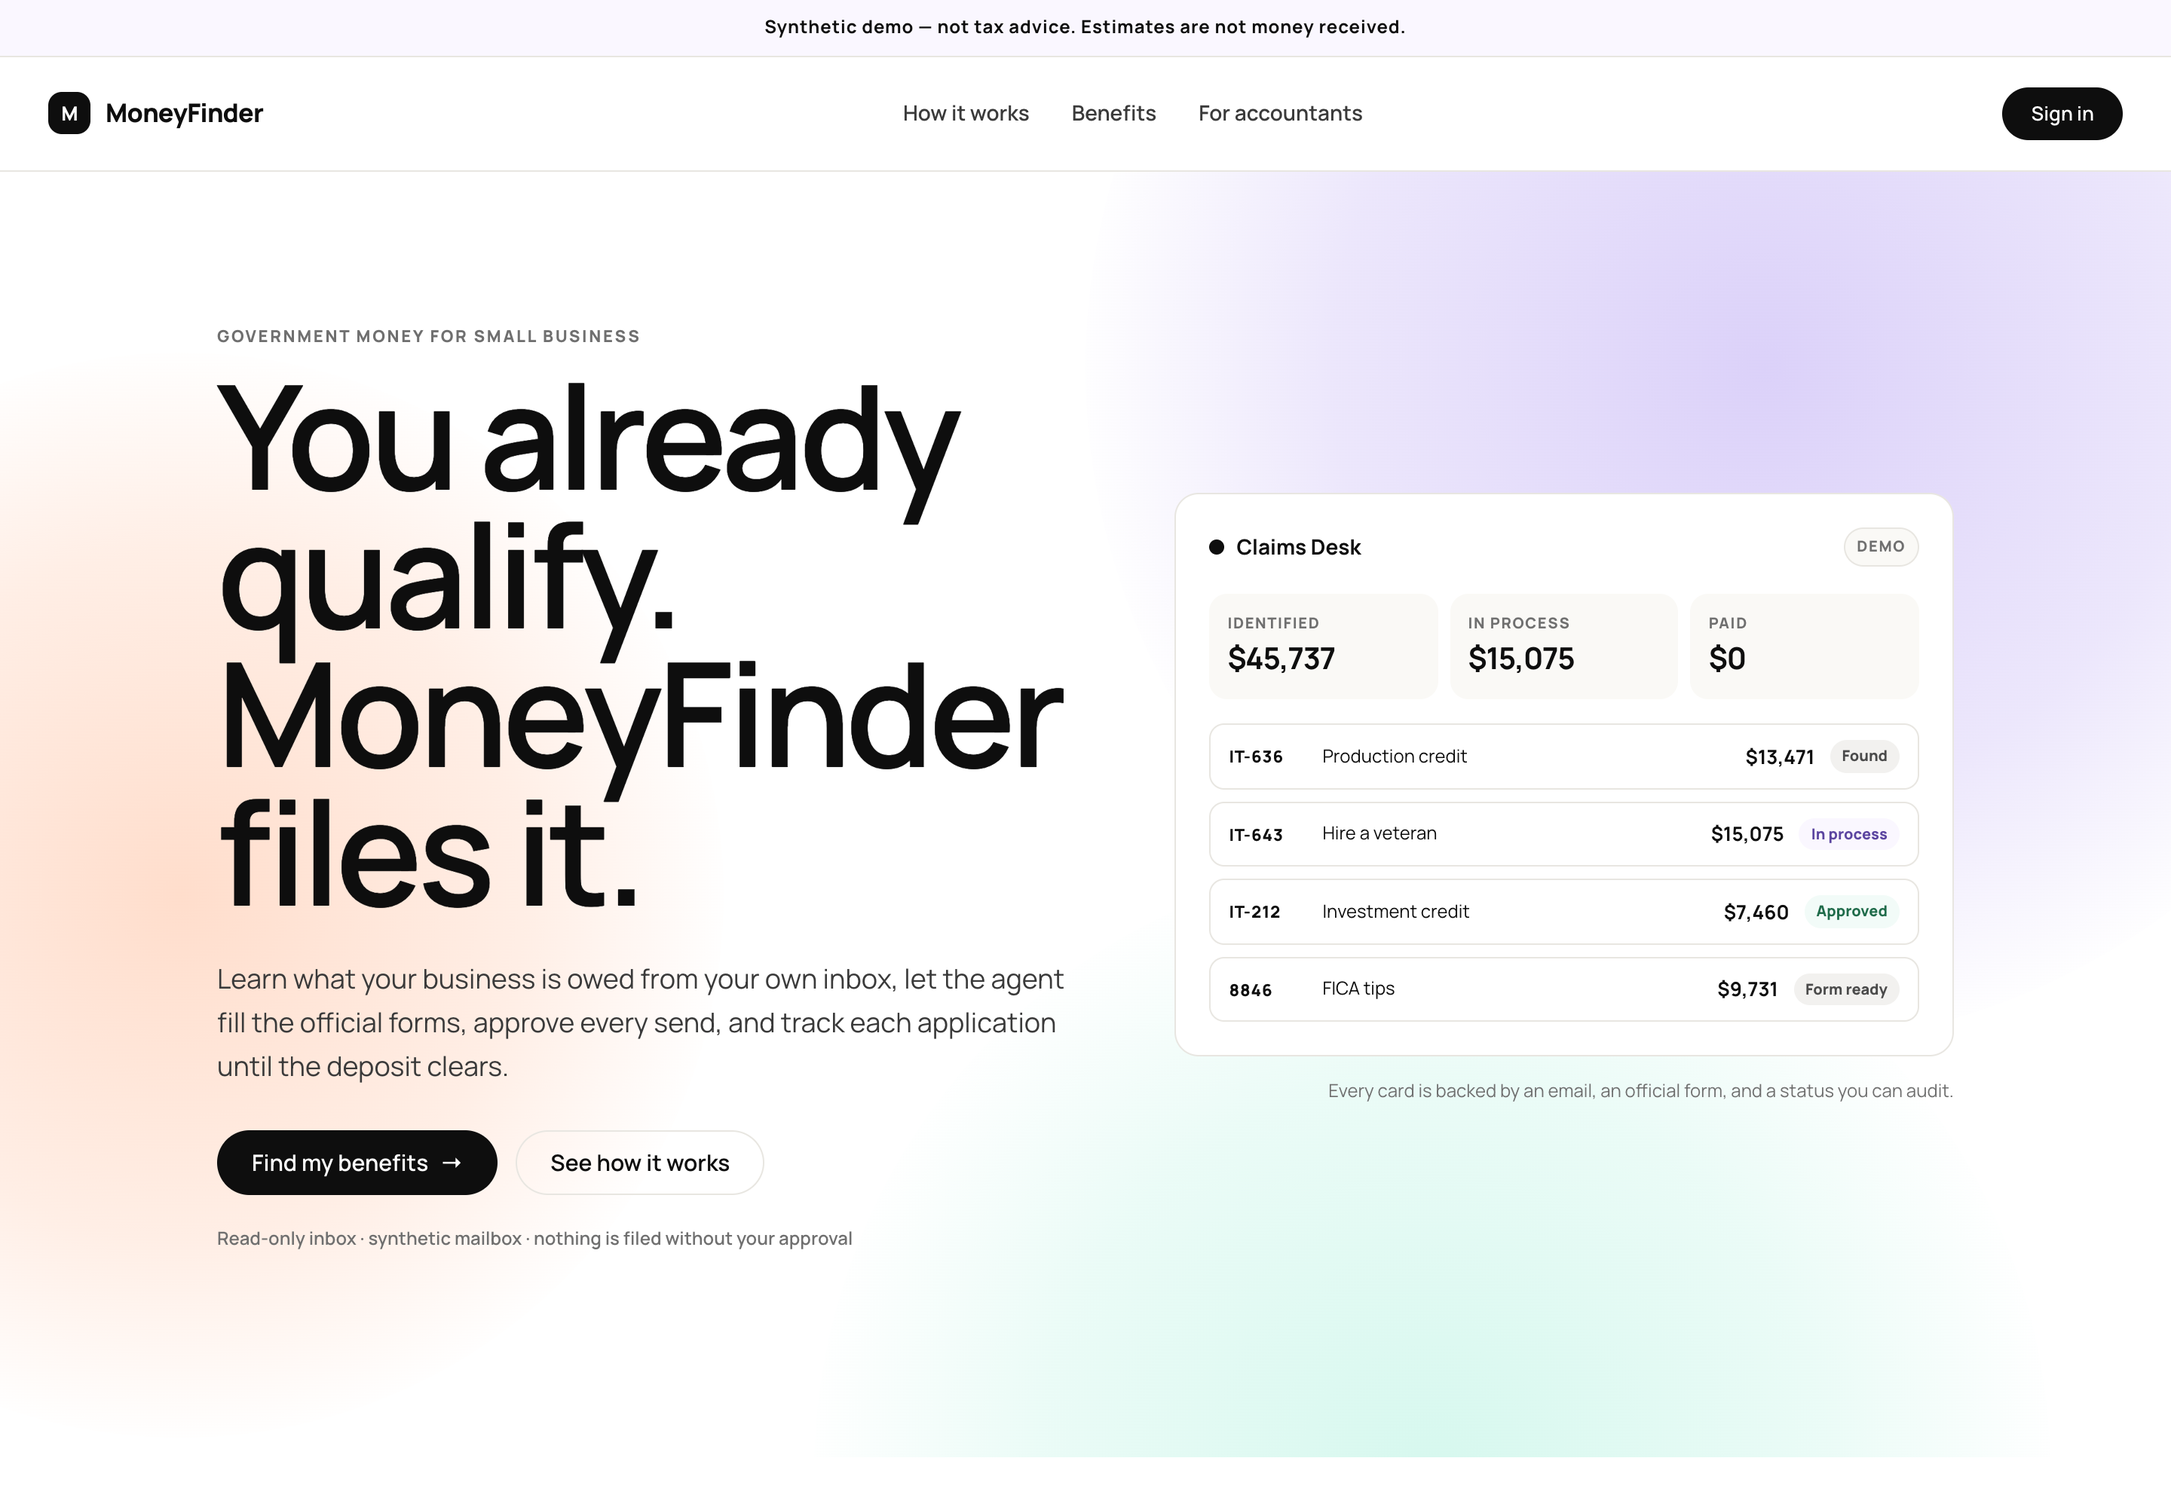
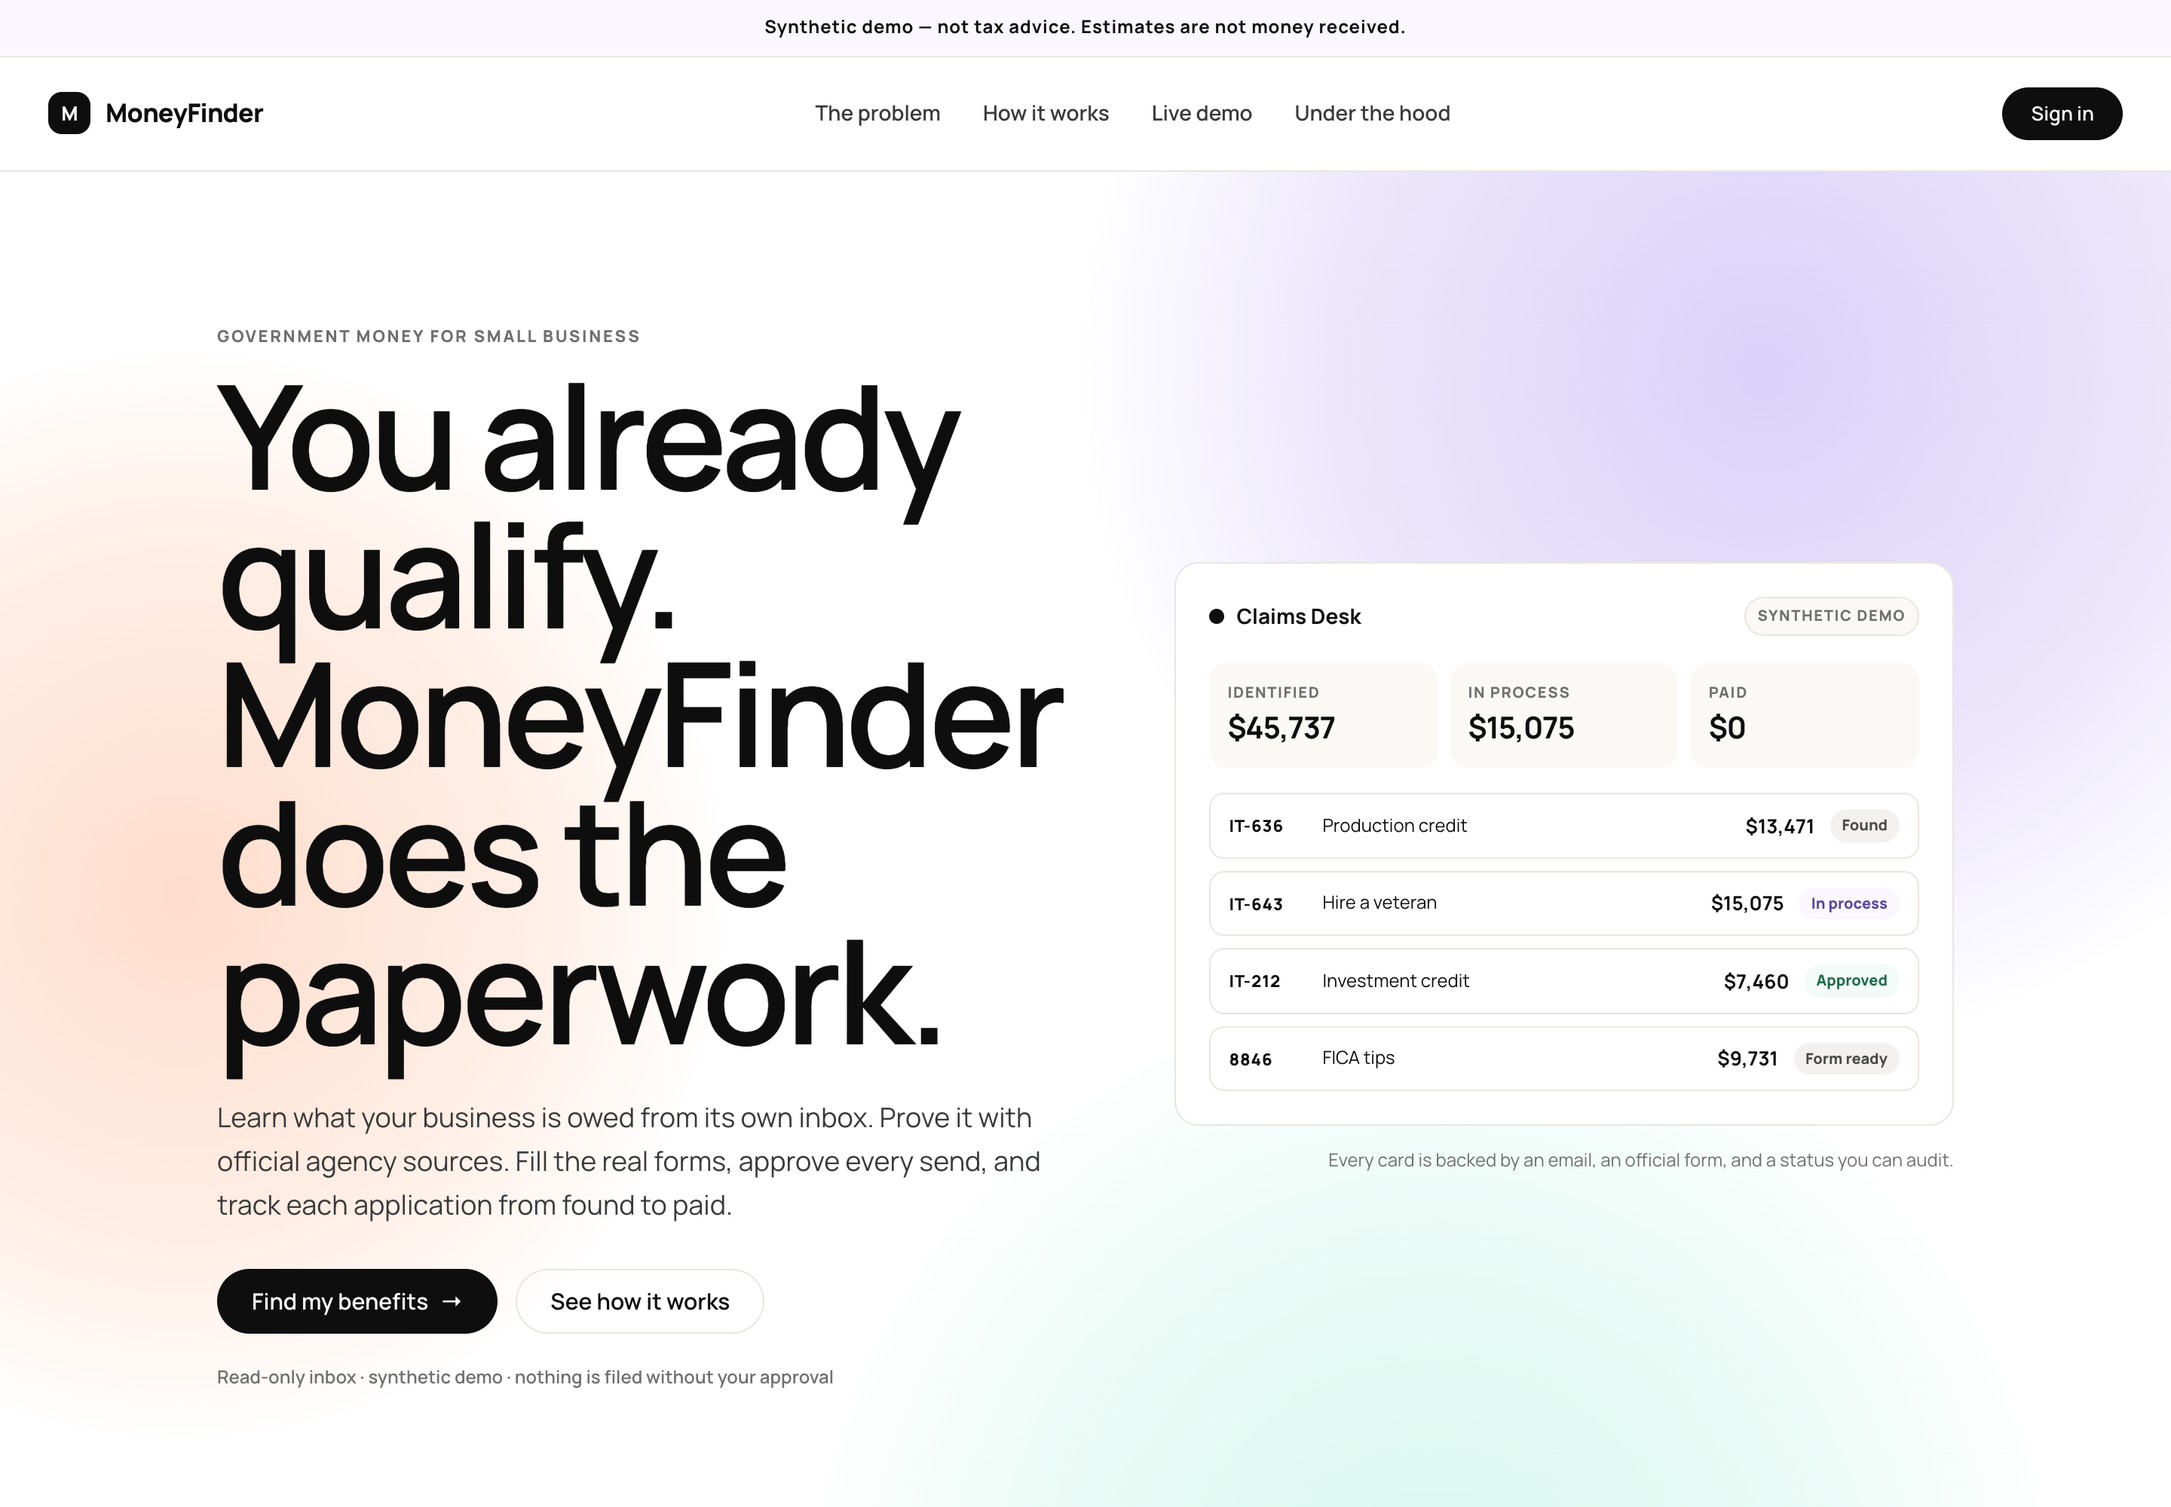
feat(landing): adapt problem-deck narrative to the claims-desk epic

diff --git a/app/templates/landing.html b/app/templates/landing.html
@@ -1,5 +1,5 @@
 {% extends "base_public.html" %}
-{% block title %}MoneyFinder — find the government money your business is owed{% endblock %}
+{% block title %}MoneyFinder — the paperwork between your business and its money{% endblock %}
 {% block content %}
 <section class="hero">
   <div class="hero-blob blob-lavender"></div>
@@ -8,17 +8,17 @@
   <div class="hero-inner">
     <div class="hero-copy">
       <p class="eyebrow">Government money for small business</p>
-      <h1 class="display">You already<br>qualify. MoneyFinder<br>files it.</h1>
-      <p class="lede">Learn what your business is owed from your own inbox, let the agent fill the official forms, approve every send, and track each application until the deposit clears.</p>
+      <h1 class="display">You already<br>qualify. MoneyFinder<br>does the paperwork.</h1>
+      <p class="lede">Learn what your business is owed from its own inbox. Prove it with official agency sources. Fill the real forms, approve every send, and track each application from found to paid.</p>
       <div class="hero-actions">
         <a class="btn primary" href="{{ url_for('flow.signin') }}">Find my benefits <span class="arrow">→</span></a>
         <a class="btn ghost" href="#how">See how it works</a>
       </div>
-      <p class="trust-line">Read-only inbox · synthetic mailbox · nothing is filed without your approval</p>
+      <p class="trust-line">Read-only inbox · synthetic demo · nothing is filed without your approval</p>
     </div>
     <div class="hero-visual">
       <div class="mock-panel">
-        <div class="mock-head"><span class="mock-dot"></span><strong>Claims Desk</strong><span class="mock-chip">Demo</span></div>
+        <div class="mock-head"><span class="mock-dot"></span><strong>Claims Desk</strong><span class="mock-chip">Synthetic demo</span></div>
         <div class="mock-stats">
           <div><span>Identified</span><strong>$45,737</strong></div>
           <div><span>In process</span><strong>$15,075</strong></div>
@@ -36,6 +36,48 @@
   </div>
 </section>
 
+<section class="section" id="problem">
+  <div class="section-inner problem-grid">
+    <div>
+      <p class="eyebrow">The problem</p>
+      <h2 class="section-title">About 9 in 10 eligible small businesses never claimed the money.</h2>
+      <p class="body-copy"><strong>$15 billion</strong> in federal small-business tax credits was available for tax year 2011. Owners want the money. Finding it is tedious: countless forms, scattered rules, no place to start — and no one tracking what happens after you send.</p>
+      <p class="body-copy">MoneyFinder turns that paperwork into one guided flow: learn the business, cite the program, fill the official form, get your approval, and track the application.</p>
+      <p class="source-note">Source: Families USA &amp; Small Business Majority (2012); White House estimate. Small business health care tax credit, tax year 2011. This is an old federal estimate, not a promise about your business.</p>
+    </div>
+    <div class="problem-stats">
+      <div class="problem-stat tint-lavender"><strong>$15B</strong><span>available in federal small-business tax credits</span></div>
+      <div class="problem-stat tint-peach"><strong>89%</strong><span>of eligible businesses missed out</span></div>
+      <div class="problem-stat tint-mint"><strong>11%</strong><span>claimed it</span></div>
+    </div>
+  </div>
+</section>
+
+<section class="section wash" id="pattern">
+  <div class="section-inner">
+    <p class="eyebrow">The pattern</p>
+    <h2 class="section-title">Billions sit unclaimed — and it makes headlines.</h2>
+    <div class="headline-grid">
+      <article class="headline-card">
+        <strong>$1.6B</strong>
+        <h3>on Long Island</h3>
+        <span>News 12 · NYS Comptroller data</span>
+      </article>
+      <article class="headline-card">
+        <strong>$4.8B</strong>
+        <h3>in Ohio</h3>
+        <span>State unclaimed funds program</span>
+      </article>
+      <article class="headline-card">
+        <strong>New Yorkers</strong>
+        <h3>urged to check</h3>
+        <span>News 12 · Statewide unclaimed funds</span>
+      </article>
+    </div>
+    <p class="source-note">These headlines cover personal unclaimed funds and refunds, not business credits. The same gap exists behind business credits and grants — and it is the paperwork that keeps the money unclaimed.</p>
+  </div>
+</section>
+
 <section class="section" id="how">
   <div class="section-inner">
     <p class="eyebrow">How it works</p>
@@ -44,30 +86,54 @@
       <article class="feature-card tint-lavender">
         <span class="feature-num">01</span>
         <h3>Connect your inbox</h3>
-        <p>Read-only, synthetic mailbox. The agent finds payroll, hires, equipment and receipts, and builds a profile you can edit.</p>
+        <p>Read-only synthetic mailbox. The agent finds payroll, hires, equipment and receipts, then builds a profile you can edit. Every fact cites the email it came from.</p>
       </article>
       <article class="feature-card tint-peach">
         <span class="feature-num">02</span>
         <h3>See what you qualify for</h3>
-        <p>Public-agency programs, matched to your facts with a plain-language “why this fits you” and a citation, never a guess.</p>
+        <p>Public-agency programs matched to your facts with a plain-language “why this fits you” and a citation. Expired programs are filtered out, not filed.</p>
       </article>
       <article class="feature-card tint-mint">
         <span class="feature-num">03</span>
-        <h3>Approve, send, track</h3>
-        <p>The agent pulls the official PDF, fills every field with provenance, and waits for your approval before anything is sent.</p>
+        <h3>Fill, approve, track</h3>
+        <p>The agent pulls the official PDF and fills every field from your profile. You review and approve; then the application moves from Found to In process, Approved, and Paid.</p>
       </article>
     </div>
   </div>
 </section>
 
-<section class="dark-band" id="benefits">
+<section class="section demo-band" id="demo">
+  <div class="section-inner demo-grid">
+    <div>
+      <p class="eyebrow">Live demo</p>
+      <h2 class="section-title">One synthetic business. Four programs. A real filled PDF.</h2>
+      <p class="body-copy">Gowanus Kettle Brewing Co. LLC: 14 employees, a 25-message synthetic inbox, and <strong>$45,737 identified</strong> across IT-636, IT-212, IT-643 and IRS 8846. Run the profile, the benefit cards, the official PDF fill, the approval, and the progress card in one flow.</p>
+      <ul class="demo-list">
+        <li>Real IT-636 / IT-212 / IT-643 / 8846 AcroForms filled with pypdf</li>
+        <li>Every filled field carries its source and confidence</li>
+        <li>Mock submission only — no agency is contacted in the demo</li>
+      </ul>
+      <a class="btn primary" href="{{ url_for('flow.signin') }}">Open the live demo <span class="arrow">→</span></a>
+    </div>
+    <div class="paper-card demo-card">
+      <div class="paper-head"><span>IT-636 · filled official PDF</span><span class="mock-chip">Preview</span></div>
+      <div class="paper-row"><div class="paper-label">Legal name</div><div class="paper-value">Gowanus Kettle Brewing Co. LLC <div class="paper-meta"><span class="source-chip">Profile</span><span class="conf">99%</span></div></div></div>
+      <div class="paper-row"><div class="paper-label">NY barrels</div><div class="paper-value">3,104 <div class="paper-meta"><span class="source-chip">Email · NYS DTF</span><span class="conf">98%</span></div></div></div>
+      <div class="paper-row"><div class="paper-label">Credit</div><div class="paper-value">$13,471 <div class="paper-meta"><span class="source-chip">Computed</span><span class="conf">95%</span></div></div></div>
+      <div class="paper-row is-missing"><div class="paper-label">Signature</div><div class="paper-value">Needs your input <div class="paper-meta"><span class="needs">you approve</span></div></div></div>
+      <p class="paper-note">The download is the real agency AcroForm, filled from the profile. Preview only.</p>
+    </div>
+  </div>
+</section>
+
+<section class="dark-band" id="money-rule">
   <div class="section-inner dark-inner">
     <p class="eyebrow light">The money rule</p>
     <h2 class="dark-title">Identified is not approved.<br>Approved is not paid.</h2>
     <p class="dark-copy">A match is an estimate. An approval is agency evidence. Paid means a deposit matched to the application. MoneyFinder never blurs the three — and never calls a form “filed” until you approve it.</p>
     <div class="dark-stats">
-      <div><strong>4</strong><span>programs matched with citations</span></div>
-      <div><strong>12</strong><span>fields filled per form, sourced</span></div>
+      <div><strong>4</strong><span>programs matched with source citations</span></div>
+      <div><strong>12</strong><span>fields filled per official form</span></div>
       <div><strong>1</strong><span>human approval before send</span></div>
     </div>
   </div>
@@ -94,9 +160,39 @@
   </div>
 </section>
 
+<section class="section wash" id="under-the-hood">
+  <div class="section-inner">
+    <p class="eyebrow">Under the hood</p>
+    <h2 class="section-title">A real agent pipeline, not a mock screen.</h2>
+    <div class="arch-grid">
+      <article class="arch-card">
+        <span class="feature-num">01 · Agent tools</span>
+        <h3>12-step run</h3>
+        <p>Inbox scan → facts → purchases → ledger → programs → eligibility → match → form → approval → accountant packet.</p>
+      </article>
+      <article class="arch-card">
+        <span class="feature-num">02 · Evidence</span>
+        <h3>Source or it didn’t happen</h3>
+        <p>Every fact and form field carries its source and confidence. The status machine only allows legal transitions; paid needs a matched deposit.</p>
+      </article>
+      <article class="arch-card">
+        <span class="feature-num">03 · Official forms</span>
+        <h3>Real PDF fill</h3>
+        <p>The actual IT-636, IT-212, IT-643 and 8846 AcroForms are filled with pypdf — not a decorative preview.</p>
+      </article>
+      <article class="arch-card">
+        <span class="feature-num">04 · Models + observability</span>
+        <h3>Nicrron + PRISM</h3>
+        <p>Model calls run through the Nicrron gateway. Every analysis run emits an agent span, 12 tool spans and an LLM span to PRISM.</p>
+      </article>
+    </div>
+    <p class="source-note">Demo submissions are mock; no agency is contacted. The synthetic business and its mailbox are fixtures.</p>
+  </div>
+</section>
+
 <section class="cta-band">
   <div class="cta-inner">
-    <h2>Your business is already owed money.<br>Go get it.</h2>
+    <h2>Your business is already owed money.<br>Let’s do the paperwork.</h2>
     <a class="btn primary" href="{{ url_for('flow.signin') }}">Find my benefits <span class="arrow">→</span></a>
     <p class="trust-line">Synthetic demo · no real Gmail · no real filing</p>
   </div>

diff --git a/app/static/css/app.css b/app/static/css/app.css
@@ -456,3 +456,39 @@ select:focus, input:focus { outline: 2px solid var(--ink); outline-offset: 1px; 
   *, *:before, *:after { animation-duration: .01ms !important; transition-duration: .01ms !important; scroll-behavior: auto !important; }
   .agent-spinner { animation: none; border-top-color: var(--muted); }
 }
+
+/* ---------- landing content (problem / pattern / demo / architecture) ---------- */
+.section.wash { background: var(--wash); }
+.problem-grid { display: grid; grid-template-columns: 1.15fr .85fr; gap: 56px; align-items: center; }
+.problem-stats { display: grid; gap: 12px; }
+.problem-stat { border-radius: var(--radius); padding: 24px; display: flex; flex-direction: column; gap: 4px; }
+.problem-stat strong { font-size: 48px; letter-spacing: -.04em; line-height: 1; }
+.problem-stat span { font-size: 13px; color: var(--ink-2); max-width: 26ch; }
+.source-note { font-size: 11px; color: var(--muted); line-height: 1.55; margin: 16px 0 0; max-width: 72ch; }
+.headline-grid { display: grid; grid-template-columns: repeat(3, 1fr); gap: 16px; margin-top: 32px; }
+.headline-card { background: #fff; border: 1px solid var(--line); border-radius: var(--radius); padding: 24px; }
+.headline-card strong { display: block; font-size: 32px; letter-spacing: -.04em; }
+.headline-card h3 { font-size: 20px; margin: 4px 0 10px; }
+.headline-card span { font-size: 11px; color: var(--muted); }
+.demo-band { background: linear-gradient(120deg, var(--lavender) 0%, var(--peach) 55%, var(--mint) 100%); }
+.demo-grid { display: grid; grid-template-columns: 1.05fr .95fr; gap: 56px; align-items: center; }
+.demo-list { list-style: none; padding: 0; margin: 0 0 24px; display: grid; gap: 8px; }
+.demo-list li { position: relative; padding-left: 22px; font-size: 14px; color: var(--ink-2); }
+.demo-list li:before { content: ""; position: absolute; left: 0; top: 7px; width: 8px; height: 8px; border-radius: 50%; background: var(--success); }
+.demo-card { background: #fff; }
+.demo-card .paper-row:last-of-type { border-bottom: 0; }
+.arch-grid { display: grid; grid-template-columns: repeat(4, 1fr); gap: 12px; margin-top: 32px; }
+.arch-card { background: #fff; border: 1px solid var(--line); border-radius: var(--radius); padding: 20px; }
+.arch-card .feature-num { font-size: 10px; }
+.arch-card h3 { font-size: 18px; margin: 10px 0 6px; }
+.arch-card p { font-size: 13px; color: var(--ink-2); margin: 0; }
+.pdf-download { margin-top: 10px; }
+@media (max-width: 1000px) {
+  .problem-grid, .demo-grid { grid-template-columns: 1fr; gap: 32px; }
+  .headline-grid { grid-template-columns: 1fr; }
+  .arch-grid { grid-template-columns: repeat(2, 1fr); }
+}
+@media (max-width: 640px) {
+  .arch-grid { grid-template-columns: 1fr; }
+  .problem-stat strong { font-size: 38px; }
+}

diff --git a/app/templates/base_public.html b/app/templates/base_public.html
@@ -16,9 +16,10 @@
       <span class="wordmark-glyph">M</span> MoneyFinder
     </a>
     <nav class="public-links">
+      <a href="{{ url_for('flow.landing') }}#problem">The problem</a>
       <a href="{{ url_for('flow.landing') }}#how">How it works</a>
-      <a href="{{ url_for('flow.landing') }}#benefits">Benefits</a>
-      <a href="{{ url_for('flow.landing') }}#accountants">For accountants</a>
+      <a href="{{ url_for('flow.landing') }}#demo">Live demo</a>
+      <a href="{{ url_for('flow.landing') }}#under-the-hood">Under the hood</a>
     </nav>
     {% if user %}
       <a class="btn primary small" href="{{ url_for('flow.onboarding') }}">Continue setup</a>
